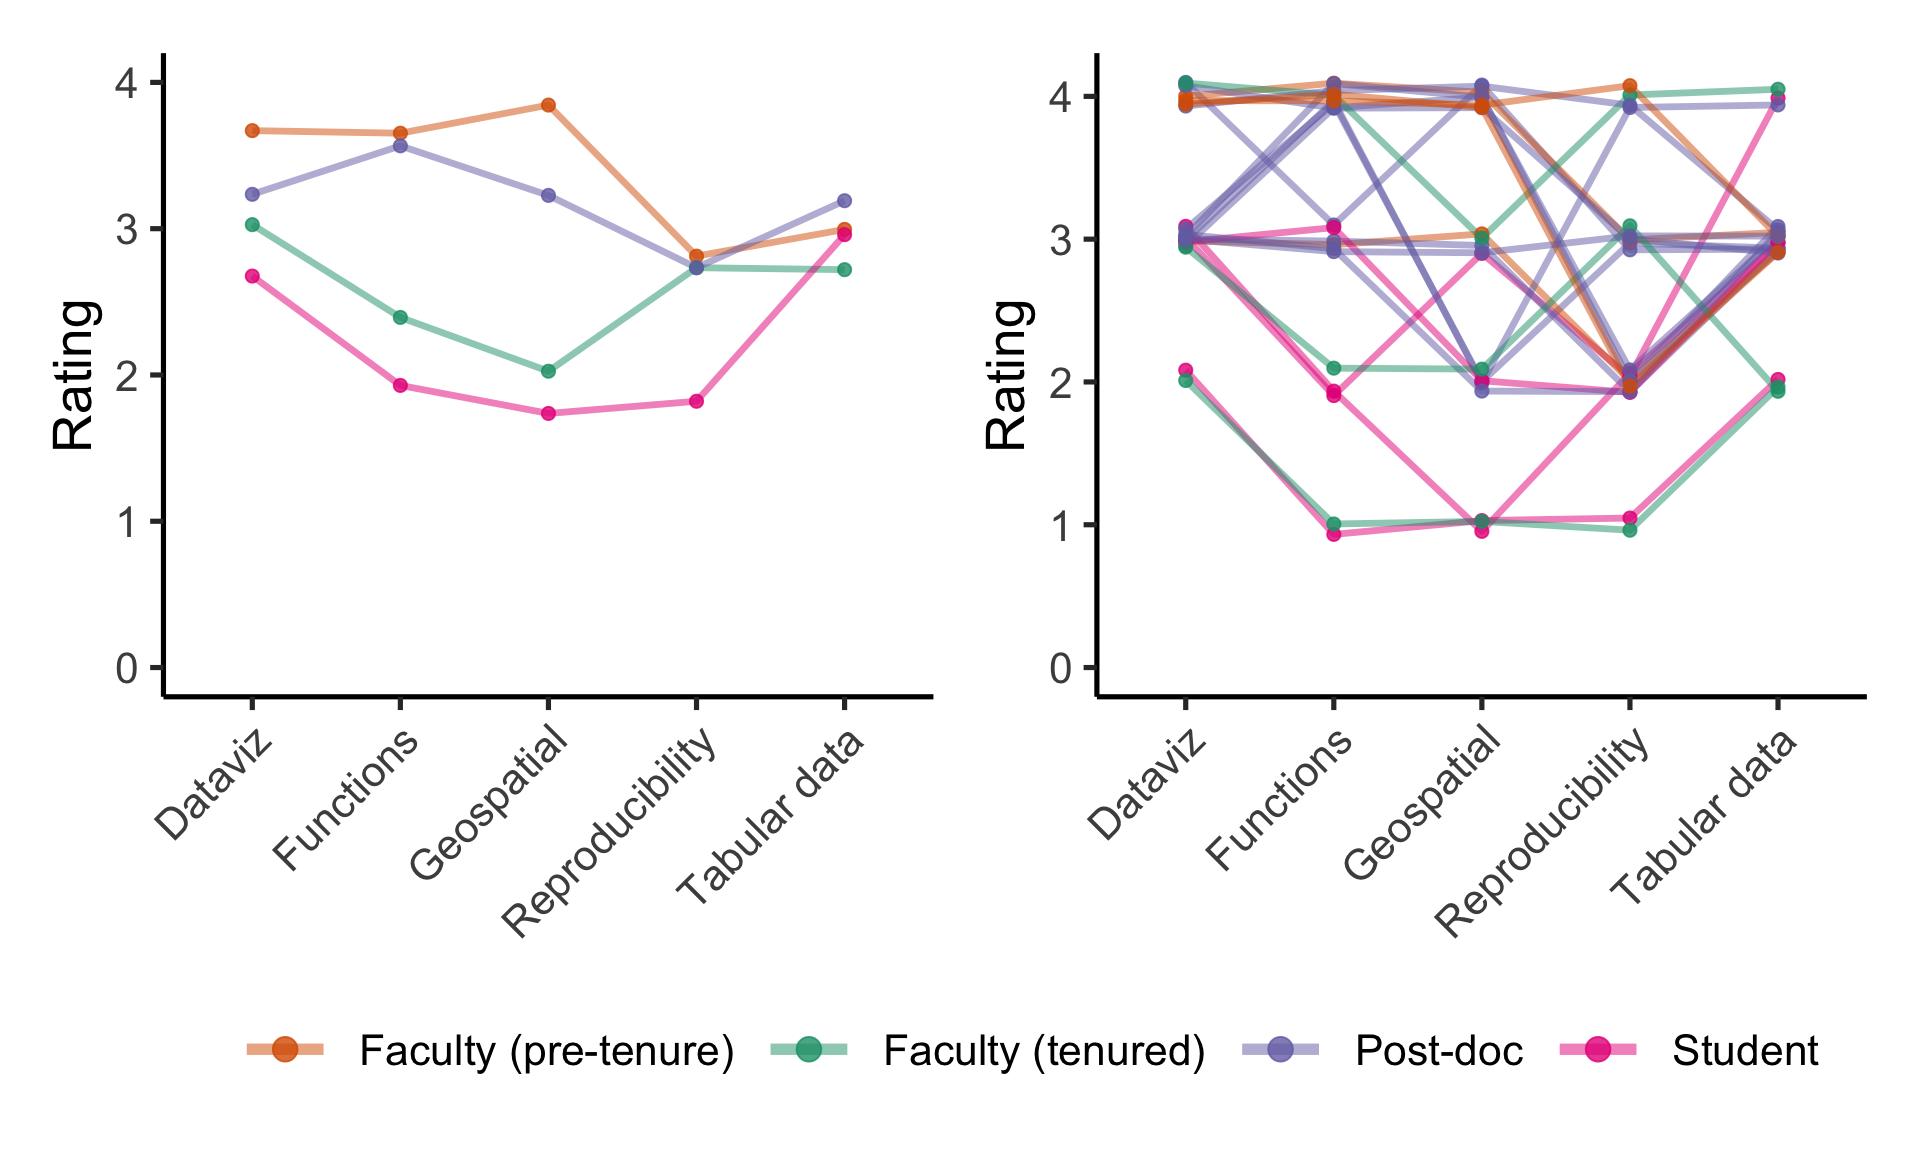
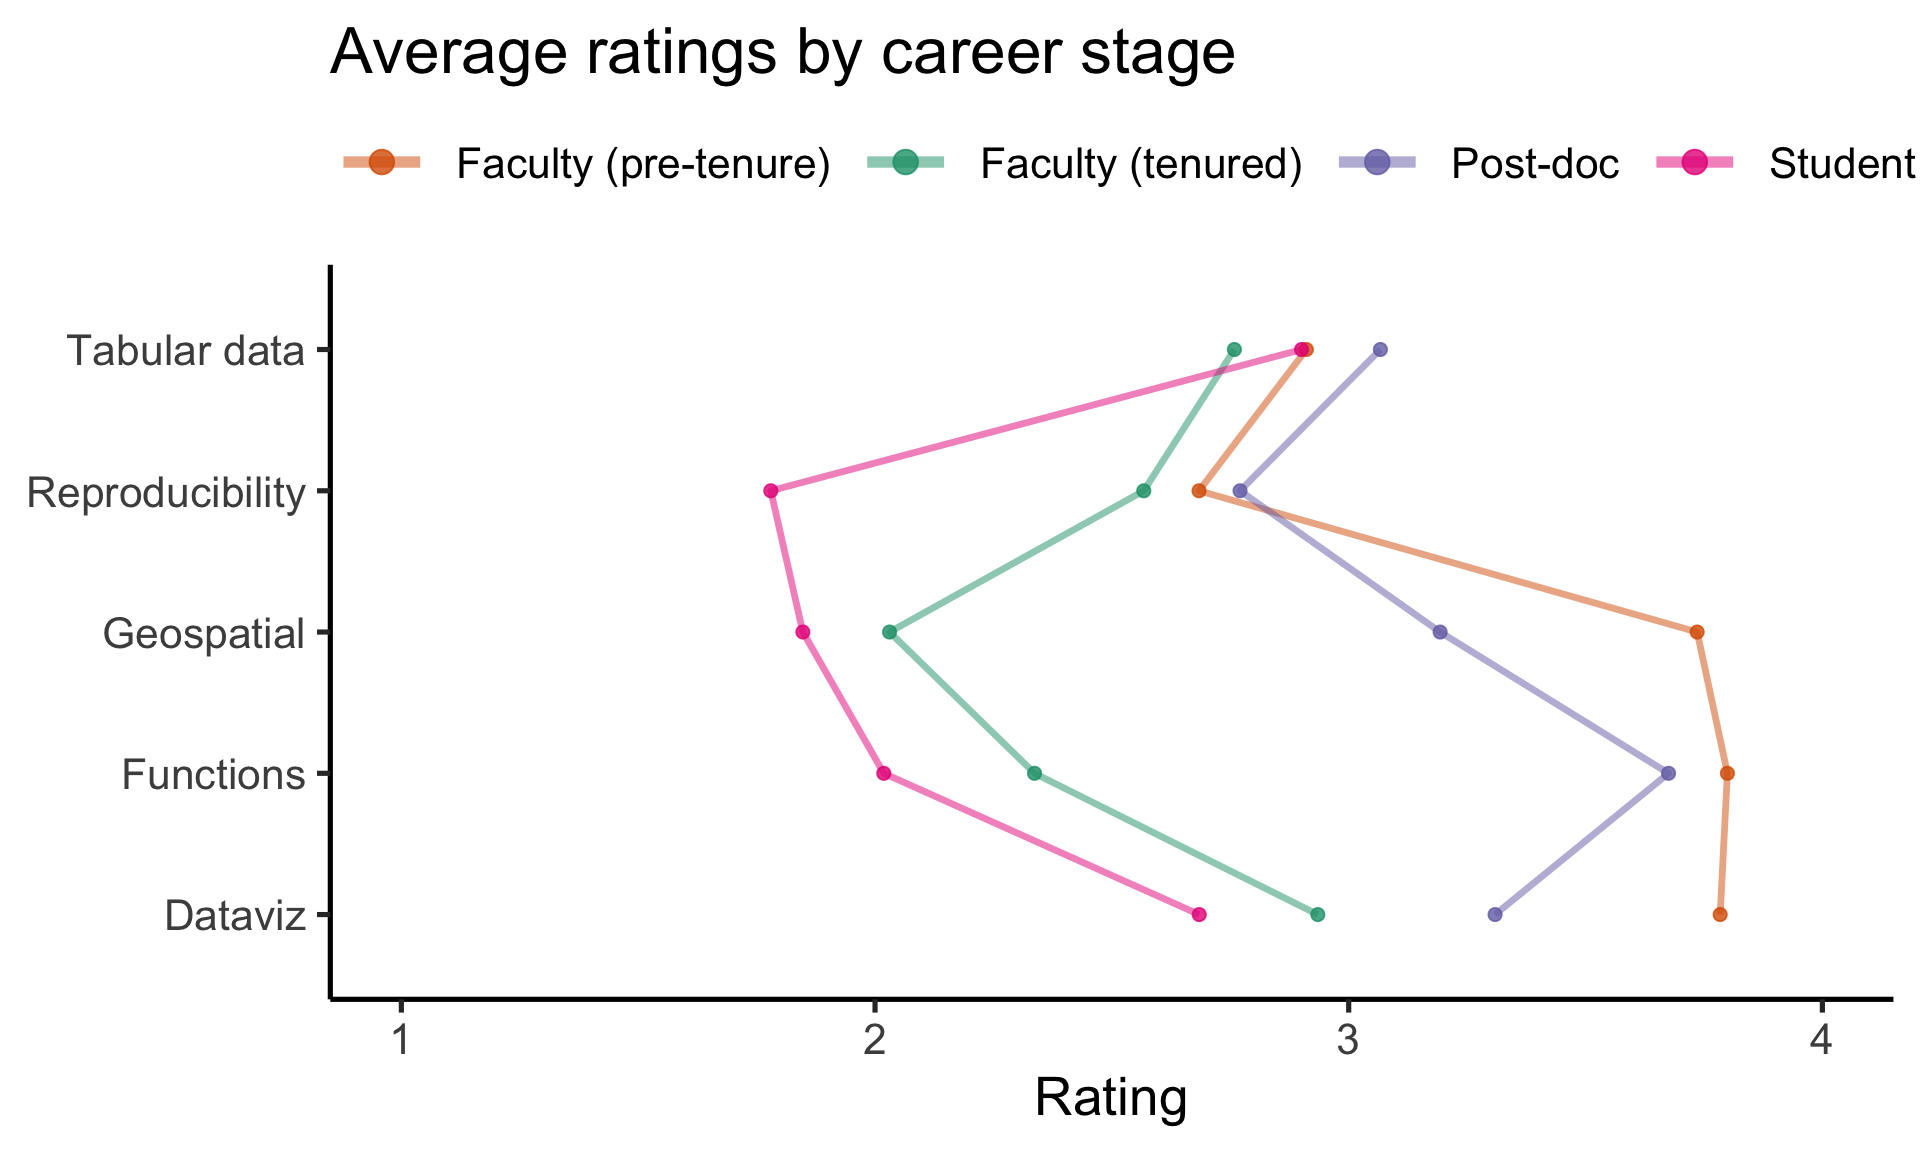
Flip axes, rearrange legend, add titles

diff --git a/priorknowledge.html b/priorknowledge.html
@@ -331,12 +331,17 @@
 </section>
 <section class="slide level2">
 
-<p>The distribution of data science <em>prior knowledge</em></p>
+<p><em>Uneven</em> <em>prior knowledge</em> of environmental data science skills</p>
 
 <img data-src="priorknowledge_files/figure-revealjs/prior_knowledge-1.png" width="960" class="r-stretch"></section>
 <section class="slide level2">
 
-<p>Two most dissimilar experiences</p>
+<p><em>Uneven</em> <em>prior knowledge</em> of environmental data science skills</p>
+
+<img data-src="priorknowledge_files/figure-revealjs/unnamed-chunk-3-1.png" width="960" class="r-stretch"></section>
+<section class="slide level2">
+
+<p>How do we teach these two students at the same time?</p>
 
 <img data-src="priorknowledge_files/figure-revealjs/dissimilar-1.png" width="960" class="r-stretch"><div class="footer footer-default">
 
